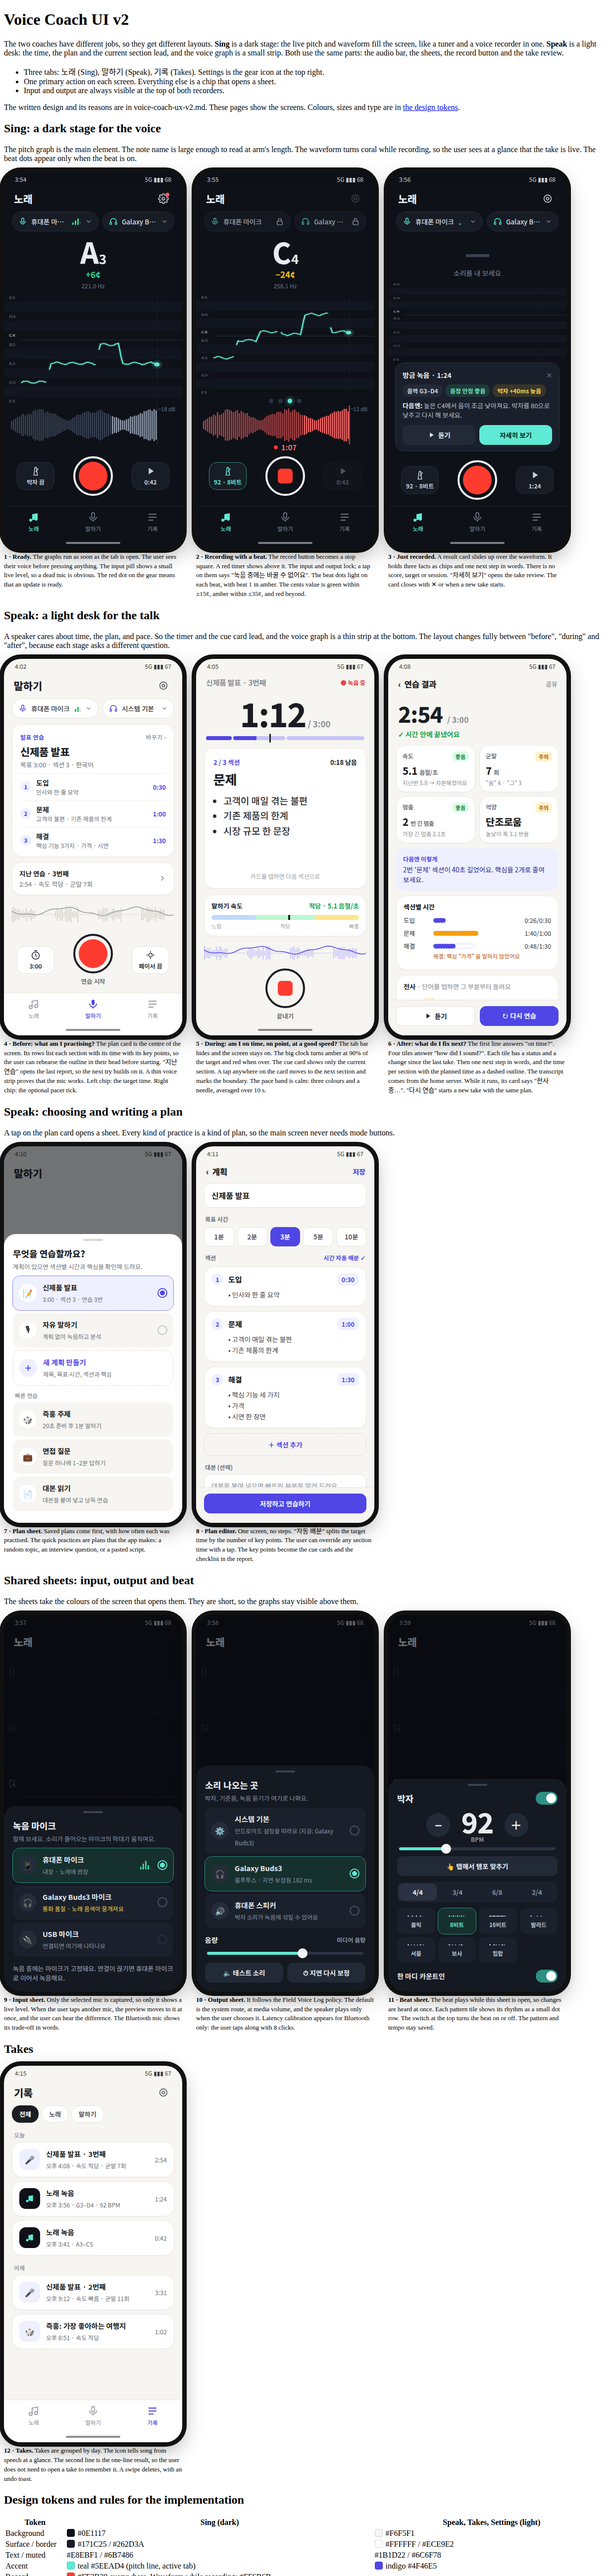
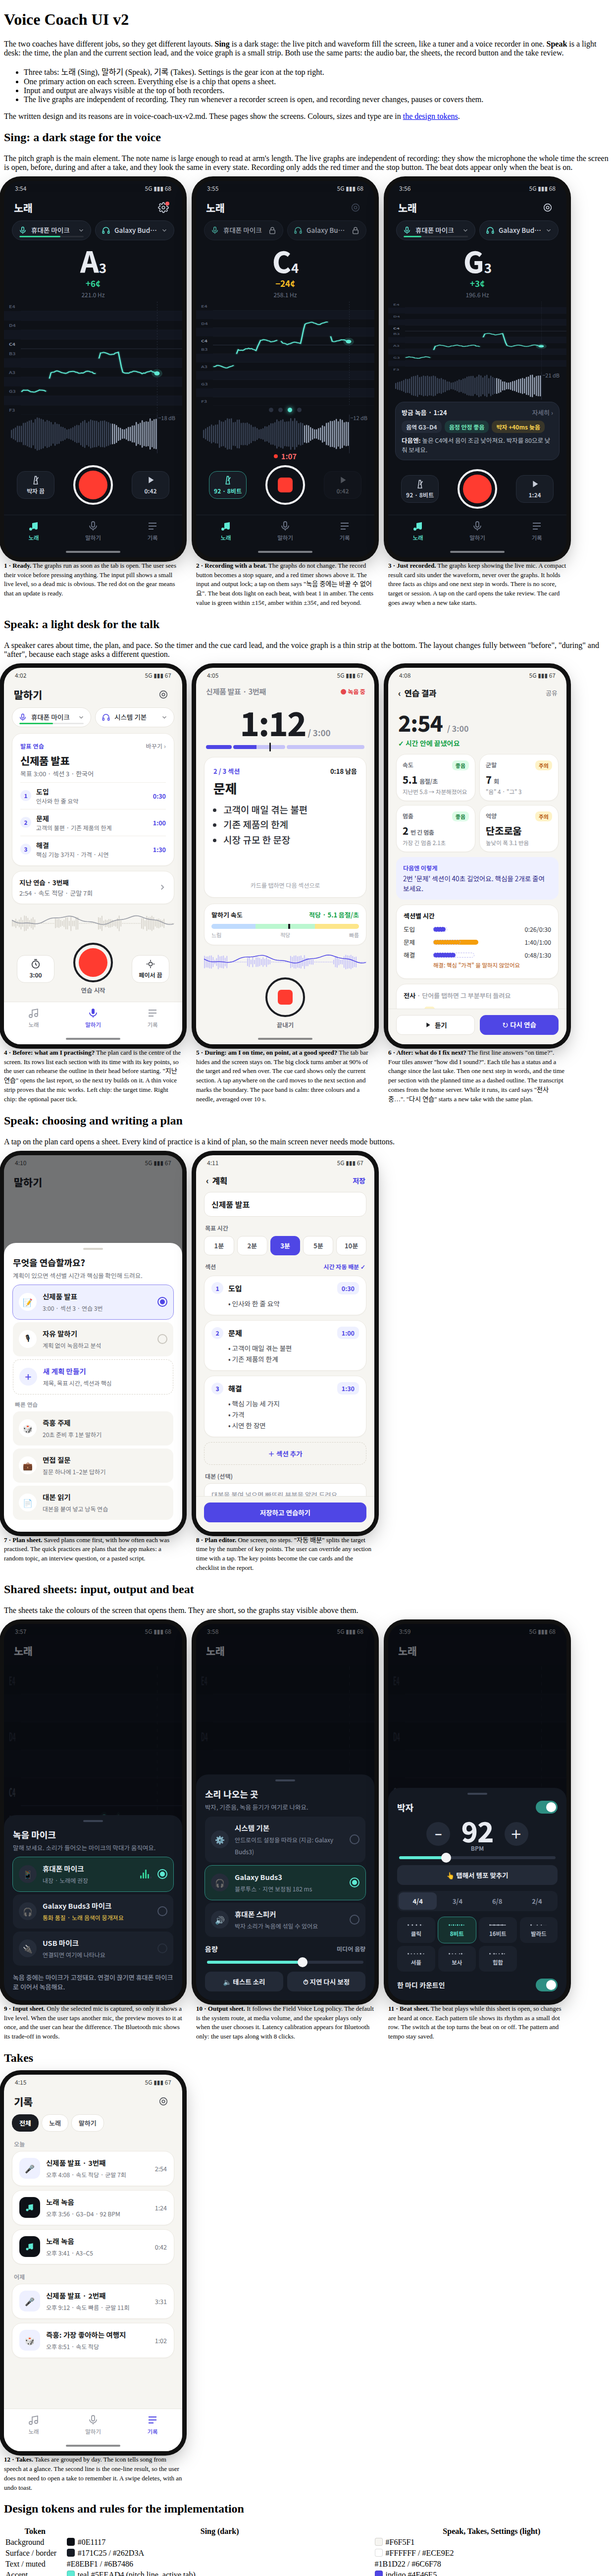
Voice Coach UX v2: live graphs independent of recording (user decision); pill level bar

diff --git a/docs/products/voice-life-companion/design/voice-coach-ui-v2.html b/docs/products/voice-life-companion/design/voice-coach-ui-v2.html
@@ -31,10 +31,13 @@
   .dark .tab { color:#6B7486; } .dark .tab.on { color:#5EEAD4; }
   .dark .navbar i { background:#E8EBF1; }
   .io { display:flex; gap:8px; padding:0 16px 6px; flex:none; }
-  .io .pill:first-child { flex:1.25; }
   .pill { padding:0 10px 0 12px; gap:6px; }
-  .pill { flex:1; height:40px; min-width:0; border-radius:20px; display:flex; align-items:center; gap:8px; padding:0 12px; font-size:13.5px; font-weight:500; white-space:nowrap; overflow:hidden; }
+  .pill { flex:1; height:40px; min-width:0; position:relative; border-radius:20px; display:flex; align-items:center; gap:8px; padding:0 12px; font-size:13.5px; font-weight:500; white-space:nowrap; overflow:hidden; }
   .pill svg { flex:none; width:18px; height:18px; }
+  .plvl { position:absolute; left:14px; right:14px; bottom:5px; height:3px; border-radius:2px; background:rgba(127,127,127,.18); overflow:hidden; }
+  .plvl b { position:absolute; left:0; top:0; bottom:0; border-radius:2px; }
+  .dark .plvl b { background:#34D399; } .light .plvl b { background:#22C55E; }
+  .pill .lbl { margin-bottom:2px; }
   .pill .lbl { overflow:hidden; text-overflow:ellipsis; flex:1; }
   .pill .chev { opacity:.6; width:14px; height:14px; }
   .dark .pill { background:#171C25; border:1px solid #262D3A; color:#D6DBE4; }
@@ -246,20 +249,21 @@
     <li>Three tabs: 노래 (Sing), 말하기 (Speak), 기록 (Takes). Settings is the gear icon at the top right.</li>
     <li>One primary action on each screen. Everything else is a chip that opens a sheet.</li>
     <li>Input and output are always visible at the top of both recorders.</li>
+    <li>The live graphs are independent of recording. They run whenever a recorder screen is open, and recording never changes, pauses or covers them.</li>
   </ul>
   <p>The written design and its reasons are in <wh-ref ref="docs/products/voice-life-companion/voice-coach-ux-v2.md">voice-coach-ux-v2.md</wh-ref>. These pages show the screens. Colours, sizes and type are in <a href="#tokens">the design tokens</a>.</p>
 </section>
 
 <section id="sing">
   <h2>Sing: a dark stage for the voice</h2>
-  <p>The pitch graph is the main element. The note name is large enough to read at arm's length. The waveform turns coral while recording, so the user sees at a glance that the take is live. The beat dots appear only when the beat is on.</p>
+  <p>The pitch graph is the main element. The note name is large enough to read at arm's length. The live graphs are independent of recording: they show the microphone the whole time the screen is open, before, during and after a take, and they look the same in every state. Recording only adds the red timer and the stop button. The beat dots appear only when the beat is on.</p>
   <div class="row">
     <div class="shot">
       <div class="phone dark" id="sing-idle">
         <div class="sb"><span>3:54</span><span>5G ▮▮▮ 68</span></div>
         <div class="hdr"><h3>노래</h3><div class="gear"><svg width="22" height="22" viewBox="0 0 24 24" fill="none" stroke="#C8CEDA" stroke-width="1.8"><circle cx="12" cy="12" r="3"/><path d="M19.4 15a1.7 1.7 0 0 0 .3 1.8l.1.1a2 2 0 1 1-2.8 2.8l-.1-.1a1.7 1.7 0 0 0-1.8-.3 1.7 1.7 0 0 0-1 1.5V21a2 2 0 1 1-4 0v-.1a1.7 1.7 0 0 0-1.1-1.5 1.7 1.7 0 0 0-1.8.3l-.1.1a2 2 0 1 1-2.8-2.8l.1-.1a1.7 1.7 0 0 0 .3-1.8 1.7 1.7 0 0 0-1.5-1H3a2 2 0 1 1 0-4h.1a1.7 1.7 0 0 0 1.5-1.1 1.7 1.7 0 0 0-.3-1.8l-.1-.1a2 2 0 1 1 2.8-2.8l.1.1a1.7 1.7 0 0 0 1.8.3H9a1.7 1.7 0 0 0 1-1.5V3a2 2 0 1 1 4 0v.1a1.7 1.7 0 0 0 1 1.5 1.7 1.7 0 0 0 1.8-.3l.1-.1a2 2 0 1 1 2.8 2.8l-.1.1a1.7 1.7 0 0 0-.3 1.8V9a1.7 1.7 0 0 0 1.5 1H21a2 2 0 1 1 0 4h-.1a1.7 1.7 0 0 0-1.5 1z"/></svg><i class="dot"></i></div></div>
         <div class="io">
-          <div class="pill"><svg viewBox="0 0 24 24" fill="none" stroke="#5EEAD4" stroke-width="2"><rect x="9" y="3" width="6" height="11" rx="3"/><path d="M5 11a7 7 0 0 0 14 0M12 18v3"/></svg><span class="lbl">휴대폰 마이크</span><span class="lvl"><i style="height:5px"></i><i style="height:9px"></i><i style="height:13px"></i><i style="height:7px;background:#2A3140"></i></span><svg class="chev" viewBox="0 0 24 24" fill="none" stroke="currentColor" stroke-width="2.4"><path d="m6 9 6 6 6-6"/></svg></div>
+          <div class="pill"><svg viewBox="0 0 24 24" fill="none" stroke="#5EEAD4" stroke-width="2"><rect x="9" y="3" width="6" height="11" rx="3"/><path d="M5 11a7 7 0 0 0 14 0M12 18v3"/></svg><span class="lbl">휴대폰 마이크</span><i class="plvl"><b style="width:64%"></b></i><svg class="chev" viewBox="0 0 24 24" fill="none" stroke="currentColor" stroke-width="2.4"><path d="m6 9 6 6 6-6"/></svg></div>
           <div class="pill"><svg viewBox="0 0 24 24" fill="none" stroke="#5EEAD4" stroke-width="2"><path d="M4 15v-3a8 8 0 0 1 16 0v3"/><rect x="3" y="14" width="4" height="6" rx="1.5"/><rect x="17" y="14" width="4" height="6" rx="1.5"/></svg><span class="lbl">Galaxy Buds3</span><svg class="chev" viewBox="0 0 24 24" fill="none" stroke="currentColor" stroke-width="2.4"><path d="m6 9 6 6 6-6"/></svg></div>
         </div>
         <div class="note"><div class="n">A<sub>3</sub></div><div class="c" style="color:#34D399">+6¢</div><div class="hz">221.0 Hz</div></div>
@@ -297,7 +301,7 @@
         <div class="tabs"><div class="tab on"><svg viewBox="0 0 24 24" fill="currentColor"><path d="M9 18V6l11-2v12"/><circle cx="6" cy="18" r="3"/><circle cx="17" cy="16" r="3"/></svg>노래</div><div class="tab"><svg viewBox="0 0 24 24" fill="none" stroke="currentColor" stroke-width="1.8"><rect x="9" y="3" width="6" height="11" rx="3"/><path d="M5 11a7 7 0 0 0 14 0M12 18v3"/></svg>말하기</div><div class="tab"><svg viewBox="0 0 24 24" fill="none" stroke="currentColor" stroke-width="1.8"><path d="M4 6h16M4 12h16M4 18h10"/></svg>기록</div></div>
         <div class="navbar"><i></i></div>
       </div>
-      <div class="cap"><b>2 · Recording with a beat.</b> The record button becomes a stop square. A red timer shows above it. The input and output lock; a tap on them says "녹음 중에는 바꿀 수 없어요". The beat dots light on each beat, with beat 1 in amber. The cents value is green within ±15¢, amber within ±35¢, and red beyond.</div>
+      <div class="cap"><b>2 · Recording with a beat.</b> The graphs do not change. The record button becomes a stop square, and a red timer shows above it. The input and output lock; a tap on them says "녹음 중에는 바꿀 수 없어요". The beat dots light on each beat, with beat 1 in amber. The cents value is green within ±15¢, amber within ±35¢, and red beyond.</div>
     </div>
 
     <div class="shot">
@@ -305,16 +309,16 @@
         <div class="sb"><span>3:56</span><span>5G ▮▮▮ 68</span></div>
         <div class="hdr"><h3>노래</h3><div class="gear"><svg width="22" height="22" viewBox="0 0 24 24" fill="none" stroke="#C8CEDA" stroke-width="1.8"><circle cx="12" cy="12" r="3"/><circle cx="12" cy="12" r="8"/></svg></div></div>
         <div class="io">
-          <div class="pill"><svg viewBox="0 0 24 24" fill="none" stroke="#5EEAD4" stroke-width="2"><rect x="9" y="3" width="6" height="11" rx="3"/><path d="M5 11a7 7 0 0 0 14 0M12 18v3"/></svg><span class="lbl">휴대폰 마이크</span><span class="lvl"><i style="height:3px"></i><i style="height:3px;background:#2A3140"></i><i style="height:3px;background:#2A3140"></i></span><svg class="chev" viewBox="0 0 24 24" fill="none" stroke="currentColor" stroke-width="2.4"><path d="m6 9 6 6 6-6"/></svg></div>
+          <div class="pill"><svg viewBox="0 0 24 24" fill="none" stroke="#5EEAD4" stroke-width="2"><rect x="9" y="3" width="6" height="11" rx="3"/><path d="M5 11a7 7 0 0 0 14 0M12 18v3"/></svg><span class="lbl">휴대폰 마이크</span><i class="plvl"><b style="width:28%"></b></i><svg class="chev" viewBox="0 0 24 24" fill="none" stroke="currentColor" stroke-width="2.4"><path d="m6 9 6 6 6-6"/></svg></div>
           <div class="pill"><svg viewBox="0 0 24 24" fill="none" stroke="#5EEAD4" stroke-width="2"><path d="M4 15v-3a8 8 0 0 1 16 0v3"/><rect x="3" y="14" width="4" height="6" rx="1.5"/><rect x="17" y="14" width="4" height="6" rx="1.5"/></svg><span class="lbl">Galaxy Buds3</span><svg class="chev" viewBox="0 0 24 24" fill="none" stroke="currentColor" stroke-width="2.4"><path d="m6 9 6 6 6-6"/></svg></div>
         </div>
-        <div class="note"><div class="n" style="color:#3A4252">—</div><div class="c" style="color:#6B7486;font-weight:500;font-size:14px">소리를 내 보세요</div></div>
-        <div class="roll"><svg data-roll="quiet" preserveAspectRatio="none"></svg></div>
-        <div class="result">
-          <div class="t">방금 녹음 · 1:24 <span>✕</span></div>
-          <div class="chips"><span class="chip">음역 G3–D4</span><span class="chip good">음정 안정 좋음</span><span class="chip warn">박자 +40ms 늦음</span></div>
-          <div class="tip"><b>다음엔:</b> 높은 C4에서 음이 조금 낮아져요. 박자를 80으로 낮추고 다시 해 보세요.</div>
-          <div class="ract"><div class="btn"><svg width="16" height="16" viewBox="0 0 24 24" fill="currentColor"><path d="M8 5v14l11-7z"/></svg>듣기</div><div class="btn p">자세히 보기</div></div>
+        <div class="note"><div class="n">G<sub>3</sub></div><div class="c" style="color:#34D399">+3¢</div><div class="hz">196.6 Hz</div></div>
+        <div class="roll"><svg data-roll="idle" preserveAspectRatio="none"></svg></div>
+        <div class="wave" style="height:56px"><span class="db">−21 dB</span><svg data-wave="idle" preserveAspectRatio="none"></svg></div>
+        <div class="result" style="padding:11px 12px 10px">
+          <div class="t" style="font-size:13px">방금 녹음 · 1:24 <span>자세히 ›</span></div>
+          <div class="chips" style="margin:7px 0 6px"><span class="chip">음역 G3–D4</span><span class="chip good">음정 안정 좋음</span><span class="chip warn">박자 +40ms 늦음</span></div>
+          <div class="tip" style="font-size:12.5px"><b>다음엔:</b> 높은 C4에서 음이 조금 낮아져요. 박자를 80으로 낮춰 보세요.</div>
         </div>
         <div class="dock" style="height:104px">
           <div class="side"><svg viewBox="0 0 24 24" fill="none" stroke="currentColor" stroke-width="1.8"><path d="M8 21h8l-2.5-17h-3z"/><path d="m12 14 6-8"/></svg>92 · 8비트</div>
@@ -324,7 +328,7 @@
         <div class="tabs"><div class="tab on"><svg viewBox="0 0 24 24" fill="currentColor"><path d="M9 18V6l11-2v12"/><circle cx="6" cy="18" r="3"/><circle cx="17" cy="16" r="3"/></svg>노래</div><div class="tab"><svg viewBox="0 0 24 24" fill="none" stroke="currentColor" stroke-width="1.8"><rect x="9" y="3" width="6" height="11" rx="3"/><path d="M5 11a7 7 0 0 0 14 0M12 18v3"/></svg>말하기</div><div class="tab"><svg viewBox="0 0 24 24" fill="none" stroke="currentColor" stroke-width="1.8"><path d="M4 6h16M4 12h16M4 18h10"/></svg>기록</div></div>
         <div class="navbar"><i></i></div>
       </div>
-      <div class="cap"><b>3 · Just recorded.</b> A result card slides up over the waveform. It holds three facts as chips and one next step in words. There is no score, target or session. "자세히 보기" opens the take review. The card closes with ✕ or when a new take starts.</div>
+      <div class="cap"><b>3 · Just recorded.</b> The graphs keep showing the live mic. A compact result card sits under the waveform, never over the graphs. It holds three facts as chips and one next step in words. There is no score, target or session. A tap on the card opens the take review. The card goes away when a new take starts.</div>
     </div>
   </div>
 </section>
@@ -338,7 +342,7 @@
         <div class="sb"><span>4:02</span><span>5G ▮▮▮ 67</span></div>
         <div class="hdr"><h3>말하기</h3><div class="gear"><svg width="22" height="22" viewBox="0 0 24 24" fill="none" stroke="#55585F" stroke-width="1.8"><circle cx="12" cy="12" r="3"/><circle cx="12" cy="12" r="8"/></svg></div></div>
         <div class="io">
-          <div class="pill"><svg viewBox="0 0 24 24" fill="none" stroke="#4F46E5" stroke-width="2"><rect x="9" y="3" width="6" height="11" rx="3"/><path d="M5 11a7 7 0 0 0 14 0M12 18v3"/></svg><span class="lbl">휴대폰 마이크</span><span class="lvl"><i style="height:6px;background:#22C55E"></i><i style="height:10px;background:#22C55E"></i><i style="height:5px;background:#E6E3DC"></i></span><svg class="chev" viewBox="0 0 24 24" fill="none" stroke="currentColor" stroke-width="2.4"><path d="m6 9 6 6 6-6"/></svg></div>
+          <div class="pill"><svg viewBox="0 0 24 24" fill="none" stroke="#4F46E5" stroke-width="2"><rect x="9" y="3" width="6" height="11" rx="3"/><path d="M5 11a7 7 0 0 0 14 0M12 18v3"/></svg><span class="lbl">휴대폰 마이크</span><i class="plvl"><b style="width:52%"></b></i><svg class="chev" viewBox="0 0 24 24" fill="none" stroke="currentColor" stroke-width="2.4"><path d="m6 9 6 6 6-6"/></svg></div>
           <div class="pill"><svg viewBox="0 0 24 24" fill="none" stroke="#4F46E5" stroke-width="2"><path d="M4 15v-3a8 8 0 0 1 16 0v3"/><rect x="3" y="14" width="4" height="6" rx="1.5"/><rect x="17" y="14" width="4" height="6" rx="1.5"/></svg><span class="lbl">시스템 기본</span><svg class="chev" viewBox="0 0 24 24" fill="none" stroke="currentColor" stroke-width="2.4"><path d="m6 9 6 6 6-6"/></svg></div>
         </div>
         <div class="card plan">
@@ -620,9 +624,9 @@
     for (let i = 0, x = 14; x < W * 0.86; i++, x += 4) {
       const env = 0.25 + 0.75 * Math.abs(Math.sin(i / 9)) * (0.6 + 0.4 * rnd()); const h = Math.max(2, env * (H - 10));
       const recent = x > W * 0.6;
-      svg.appendChild(el('rect', { x, y: (H - h) / 2, width: 2.4, height: h, rx: 1.2, fill: rec ? (recent ? '#FF6B6B' : '#B4474A') : (recent ? '#9AA5B8' : '#3A4457') }));
+      svg.appendChild(el('rect', { x, y: (H - h) / 2, width: 2.4, height: h, rx: 1.2, fill: recent ? '#9AA5B8' : '#3A4457' }));
     }
-    svg.appendChild(el('line', { x1: W * 0.86, x2: W * 0.86, y1: 0, y2: H, stroke: rec ? '#FF3B30' : '#2B3242', 'stroke-width': rec ? 2 : 1 }));
+    svg.appendChild(el('line', { x1: W * 0.86, x2: W * 0.86, y1: 0, y2: H, stroke: '#2B3242', 'stroke-width': 1 }));
   });
   document.querySelectorAll('svg[data-strip]').forEach(svg => {
     const live = svg.dataset.strip === 'live'; const W = 330, H = 64; svg.setAttribute('viewBox', `0 0 ${W} ${H}`);

diff --git a/docs/products/voice-life-companion/voice-coach-ux-v2.md b/docs/products/voice-life-companion/voice-coach-ux-v2.md
@@ -33,6 +33,7 @@ A second message the same day: "It is good for Speak and Sing to share component
 3. **Settings live where they act.** Input and output are chips on the recorder, tempo is a chip on the recorder, and the plan is a card on the speech recorder. The Settings screen only holds server, update, language and Labs.
 4. **Results in words first, then graphs.** After a take: one summary line, one next action, then details.
 5. **No silent action.** Every tap gives feedback (ARCHITECTURE.md "Feedback rule").
+6. **Live graphs are independent of recording** (user, 2026-11-07). The graphs show the live microphone whenever a recorder screen is open: before, during and after a take. Recording never changes their look, pauses them, or covers them. Result cards sit below the graphs. Recording is shown only by the record button, which becomes a stop square, and the red timer.
 
 ## 2. Navigation
 
